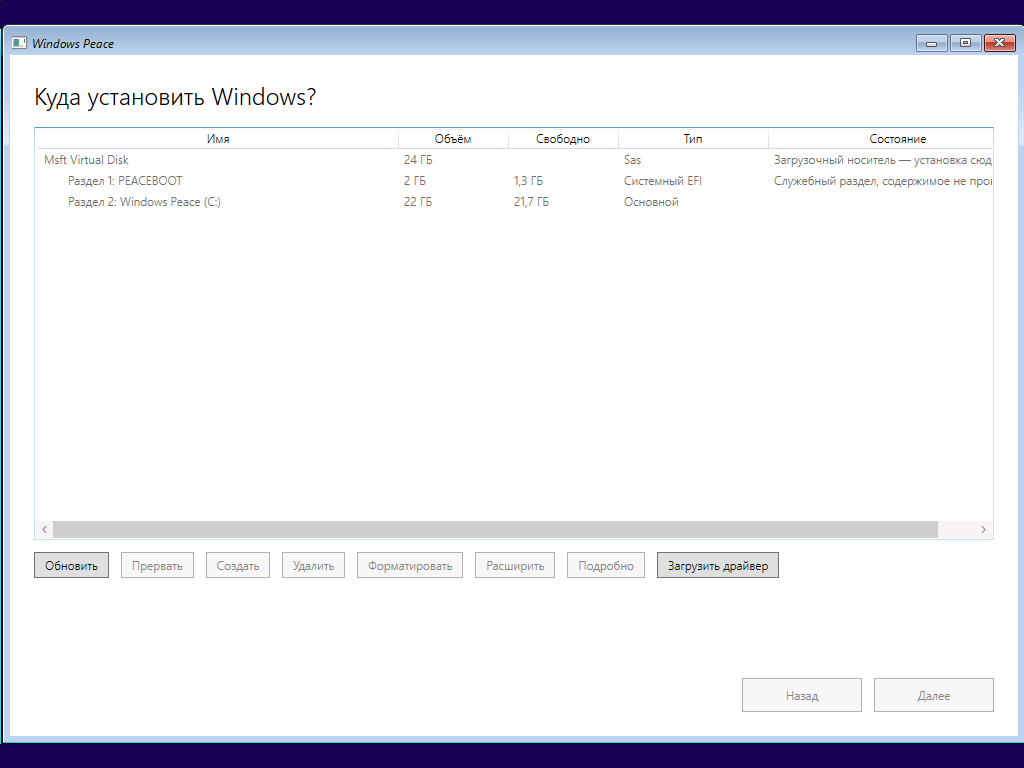
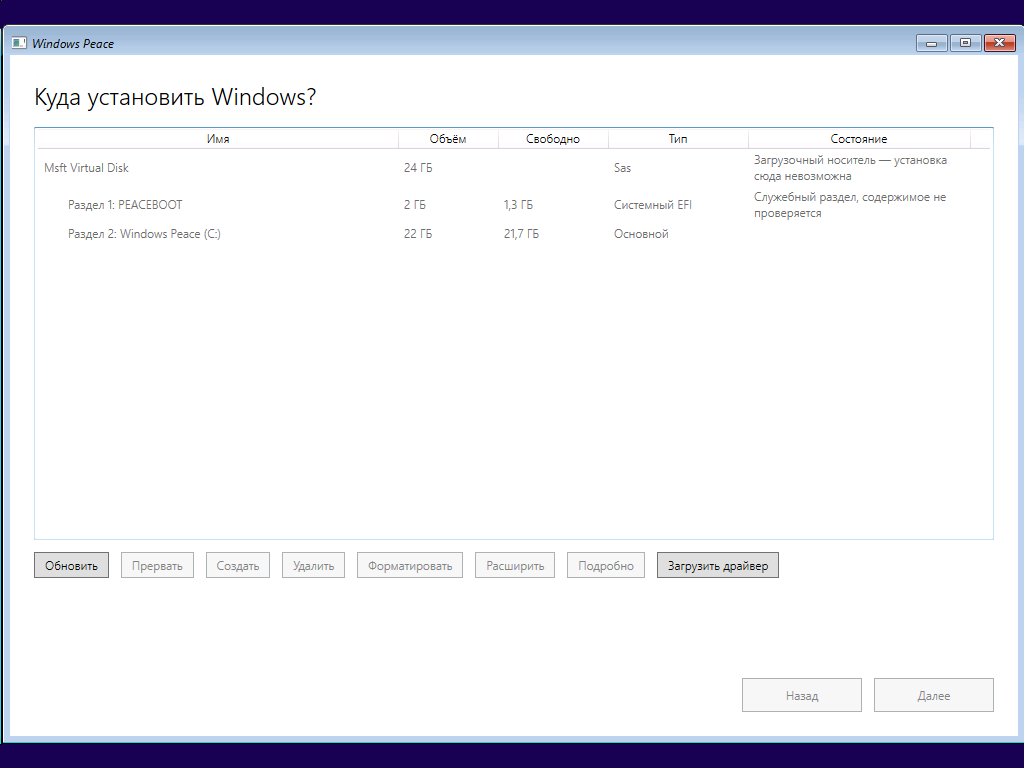
Столбец «Состояние» больше не режет предупреждения
Обрезалось объяснение, почему на диск нельзя ставить. Столбцы GridView сами не растягиваются: на узком окне текст обрезан, на широком справа пустое место -- обе половины дефекта с шага А.

Последний столбец теперь занимает всё оставшееся место при любой ширине окна, а его текст переносится по строкам. Ширины остальных столбцов не переписаны в расчёт числами, а спрашиваются у самой таблицы: иначе правка разметки молча ломала бы расчёт.

Проверено в WinPE на стенде: обе строки видны целиком, полосы прокрутки нет.

Сборка носителя теперь отказывается работать с виртуальным диском, занятым виртуалкой, и называет её по имени. Прежде она падала посреди дела, оставляя на носителе смесь старого и нового -- на чём я и попался, сняв экран со старым приложением.

diff --git a/src/WindowsPeace.Setup/Pages/DiskPickerPage.xaml b/src/WindowsPeace.Setup/Pages/DiskPickerPage.xaml
@@ -1,8 +1,10 @@
 <UserControl x:Class="WindowsPeace.Setup.Pages.DiskPickerPage"
              xmlns="http://schemas.microsoft.com/winfx/2006/xaml/presentation"
-             xmlns:x="http://schemas.microsoft.com/winfx/2006/xaml">
+             xmlns:x="http://schemas.microsoft.com/winfx/2006/xaml"
+             xmlns:infrastructure="clr-namespace:WindowsPeace.Setup.Infrastructure">
     <UserControl.Resources>
         <BooleanToVisibilityConverter x:Key="BoolToVisibility" />
+        <infrastructure:RemainingWidthConverter x:Key="RemainingWidth" />
     </UserControl.Resources>
 
     <Grid>
@@ -22,7 +24,7 @@
             «Далее», хотя человек ничего не выбирал. Спека требует обратного:
             пока не выбрано ничего, дальше идти нельзя.
         -->
-        <ListView Grid.Row="0" ItemsSource="{Binding Rows}" SelectedItem="{Binding Selected}"
+        <ListView x:Name="DiskList" Grid.Row="0" ItemsSource="{Binding Rows}" SelectedItem="{Binding Selected}"
                   IsSynchronizedWithCurrentItem="False">
             <ListView.ItemContainerStyle>
                 <Style TargetType="ListViewItem">
@@ -41,10 +43,28 @@
                             </DataTemplate>
                         </GridViewColumn.CellTemplate>
                     </GridViewColumn>
-                    <GridViewColumn Header="Объём" Width="110" DisplayMemberBinding="{Binding Size}" />
+                    <GridViewColumn Header="Объём" Width="100" DisplayMemberBinding="{Binding Size}" />
                     <GridViewColumn Header="Свободно" Width="110" DisplayMemberBinding="{Binding Free}" />
-                    <GridViewColumn Header="Тип" Width="150" DisplayMemberBinding="{Binding Type}" />
-                    <GridViewColumn Header="Состояние" Width="260" DisplayMemberBinding="{Binding Note}" />
+                    <GridViewColumn Header="Тип" Width="140" DisplayMemberBinding="{Binding Type}" />
+
+                    <!--
+                        Последний столбец занимает всё оставшееся место, а его текст
+                        переносится по строкам. Здесь лежит объяснение, почему на диск
+                        нельзя ставить, — обрезать его нельзя ни при какой ширине окна.
+                    -->
+                    <GridViewColumn Header="Состояние">
+                        <GridViewColumn.Width>
+                            <MultiBinding Converter="{StaticResource RemainingWidth}">
+                                <Binding ElementName="DiskList" Path="ActualWidth" />
+                                <Binding ElementName="DiskList" />
+                            </MultiBinding>
+                        </GridViewColumn.Width>
+                        <GridViewColumn.CellTemplate>
+                            <DataTemplate>
+                                <TextBlock Text="{Binding Note}" TextWrapping="Wrap" />
+                            </DataTemplate>
+                        </GridViewColumn.CellTemplate>
+                    </GridViewColumn>
                 </GridView>
             </ListView.View>
         </ListView>

diff --git a/src/WindowsPeace.Setup/Infrastructure/RemainingWidthConverter.cs b/src/WindowsPeace.Setup/Infrastructure/RemainingWidthConverter.cs
@@ -1,0 +1,50 @@
+using System;
+using System.Globalization;
+using System.Windows.Controls;
+using System.Windows.Data;
+
+namespace WindowsPeace.Setup.Infrastructure;
+
+/// <summary>
+/// Ширина последнего столбца таблицы: всё, что осталось от ширины списка.
+///
+/// Столбцы GridView сами не растягиваются. Без этого последний столбец имеет
+/// постоянную ширину, и получается одно из двух: на узком окне текст обрезан,
+/// на широком справа пустое место. В нашем случае обрезалось объяснение,
+/// почему на диск нельзя ставить, — то есть предупреждение, а не украшение.
+///
+/// Ширины остальных столбцов не переписываются сюда числами, а спрашиваются
+/// у самой таблицы: иначе правка разметки молча ломала бы расчёт.
+/// </summary>
+public sealed class RemainingWidthConverter : IMultiValueConverter
+{
+    /// <summary>Запас на рамку списка и полосу прокрутки.</summary>
+    private const double Chrome = 28;
+
+    /// <summary>Уже этого столбец делать бессмысленно — лучше полоса прокрутки.</summary>
+    private const double Minimum = 160;
+
+    public object Convert(object[] values, Type targetType, object? parameter, CultureInfo culture)
+    {
+        if (values.Length < 2 ||
+            values[0] is not double totalWidth ||
+            values[1] is not ListView list ||
+            list.View is not GridView grid ||
+            grid.Columns.Count == 0)
+        {
+            return Minimum;
+        }
+
+        var taken = 0.0;
+        for (var i = 0; i < grid.Columns.Count - 1; i++)
+        {
+            taken += grid.Columns[i].ActualWidth;
+        }
+
+        var remaining = totalWidth - taken - Chrome;
+        return remaining < Minimum ? Minimum : remaining;
+    }
+
+    public object[] ConvertBack(object value, Type[] targetTypes, object? parameter, CultureInfo culture)
+        => throw new NotSupportedException("Ширина столбца только вычисляется, обратно не разбирается.");
+}
